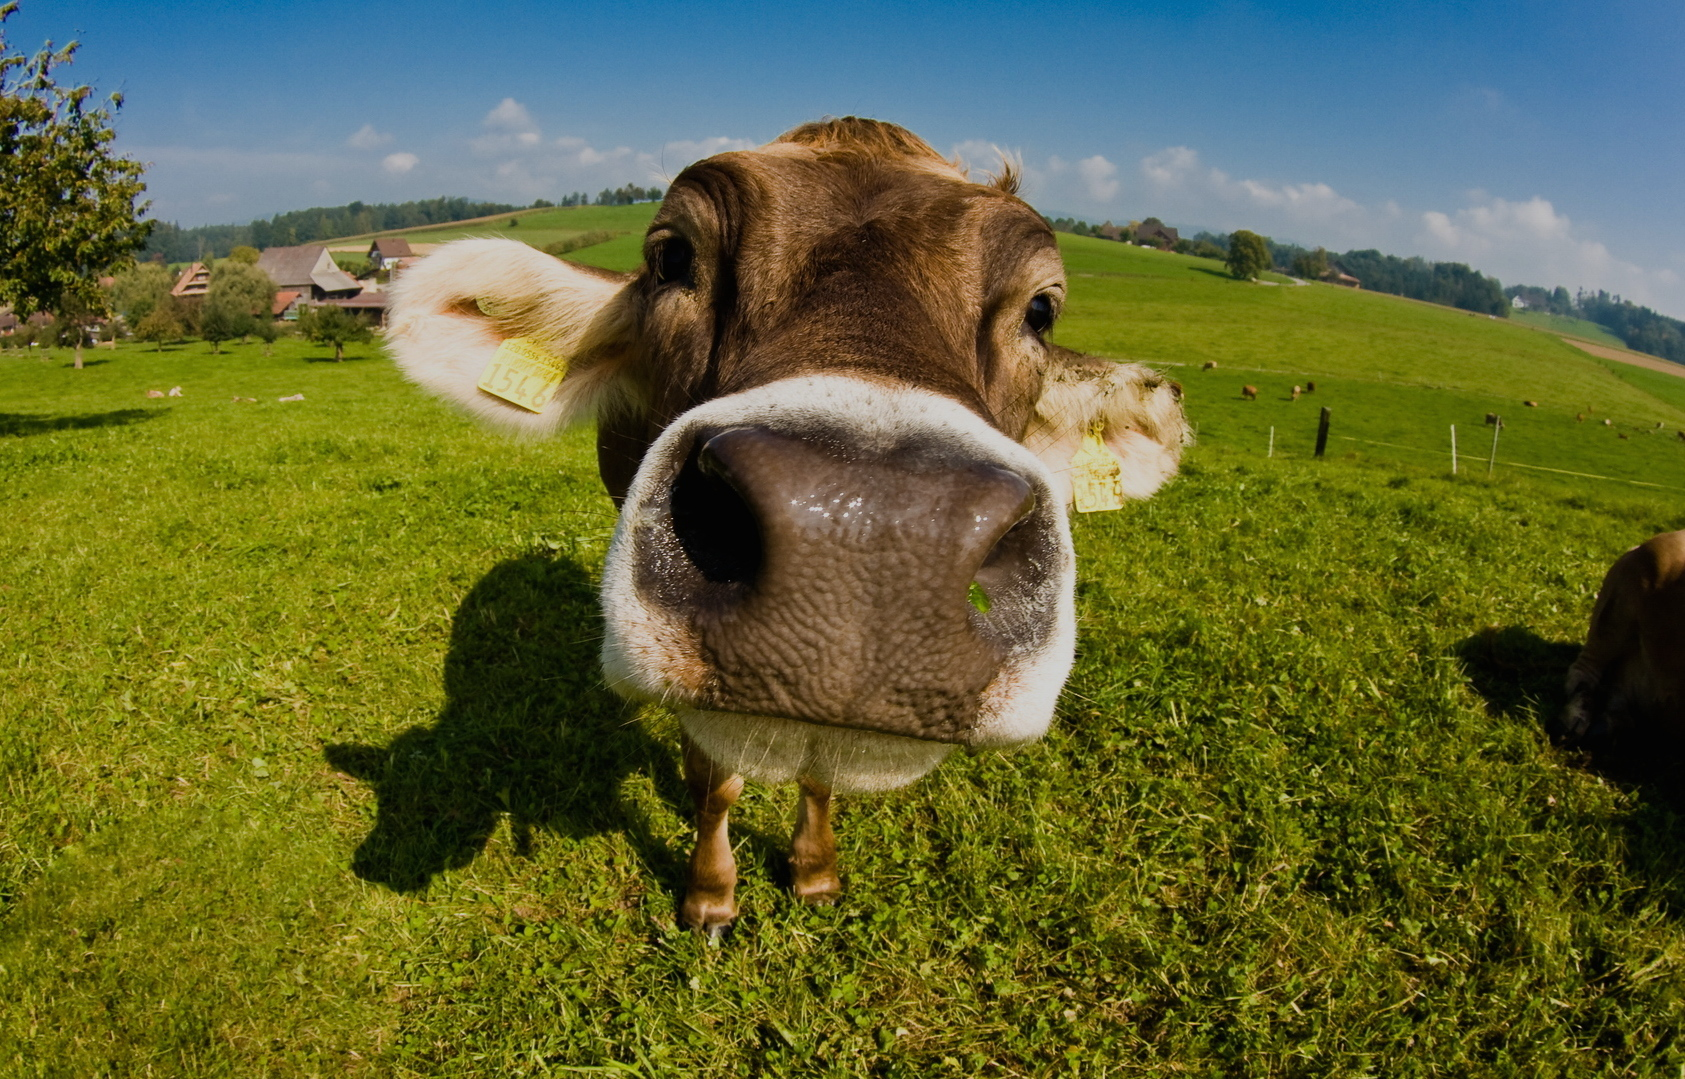
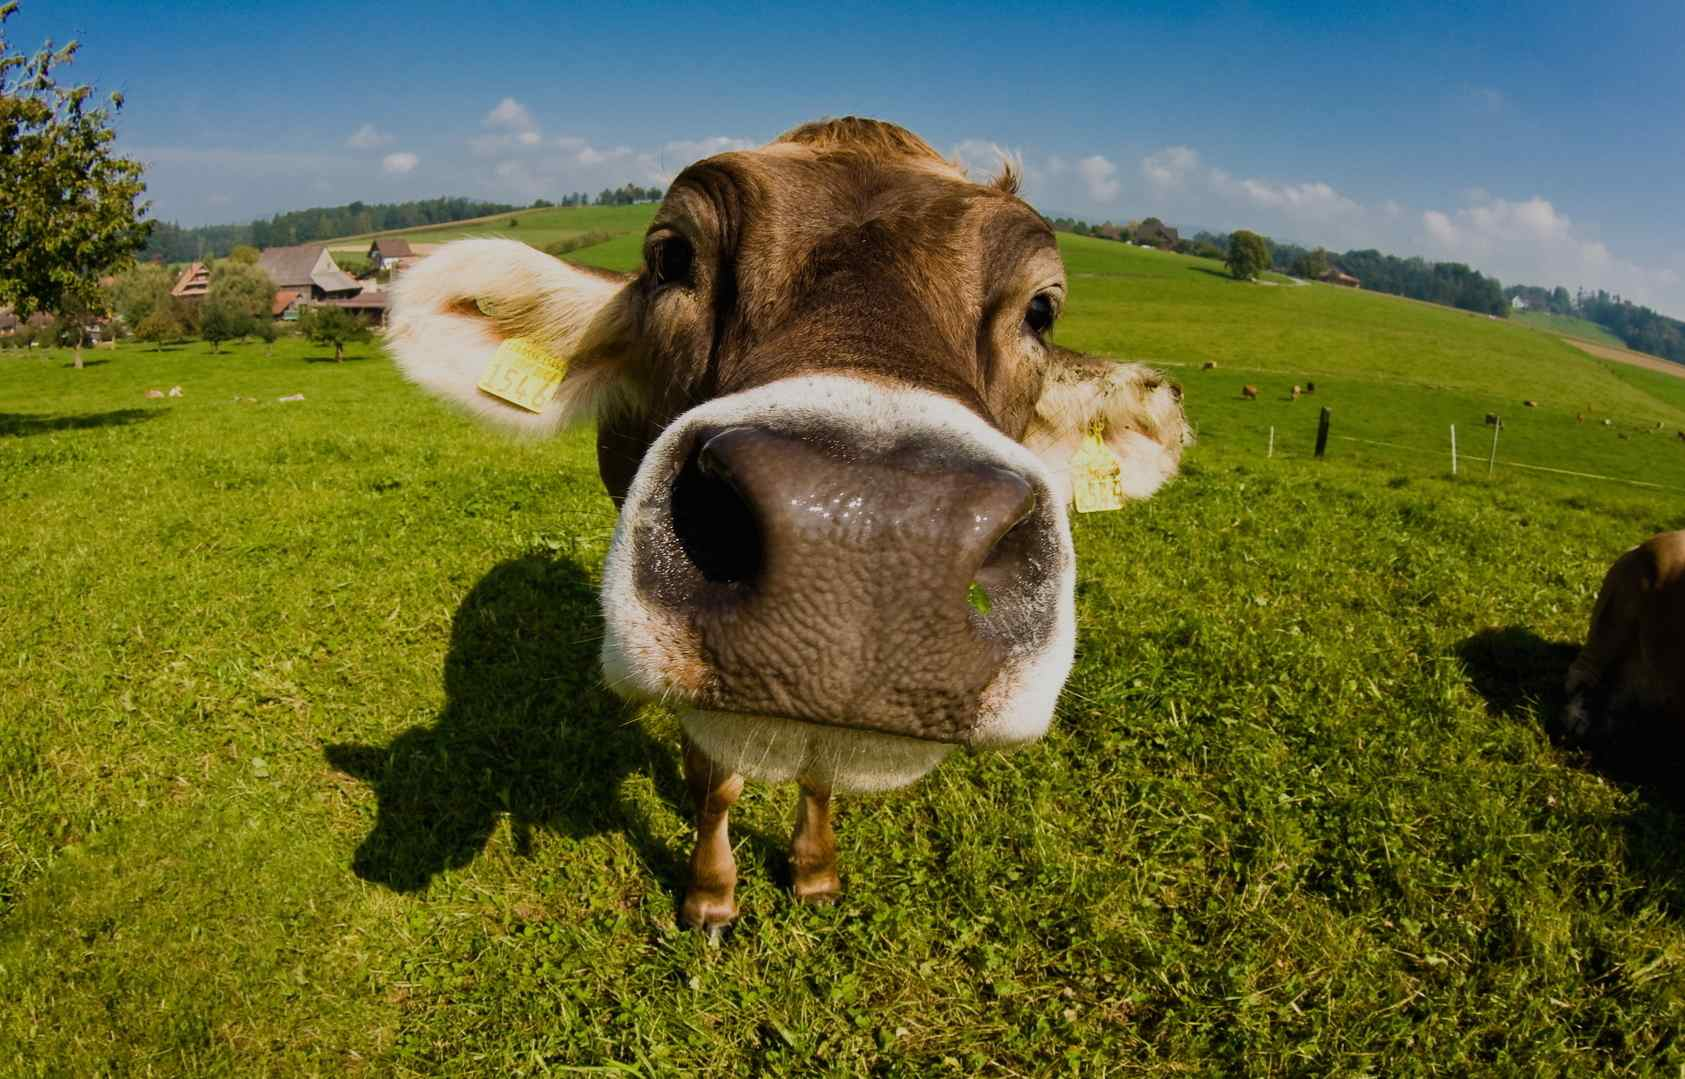
fixed user resetting forgotten password
also fixed invoice numbering, mail template finding and downsized two
images for improved speed performance.

diff --git a/server/API.js b/server/API.js
@@ -250,6 +250,7 @@ exports.configAPI = function configAPI(app) {
 				// If the body for a product contains an ID, it must already exist so we will
 				// update it. Only an admin or the user who
 				// created a product can update it. The original product is looked up by id.
+				// If the product's cycle equals the current cycle, edit an existing product
 				if (req.body._id && req.body.cycle === scheduler.currentCycle) {
 					models.Product.findById(req.body._id, function(err, product) { // first find the right product by it's ID
 						if (err) return next(err);
@@ -964,14 +965,13 @@ exports.configAPI = function configAPI(app) {
 							log.info(data.status);
 							done(data.status, null);
 						}
-					
 					});
 				}
 				else done(null, 0, 0);
 			}, function(lat, lng, done) {
 				// disable unapproved producers from uploading immediately.
-				//if (req.body.user_type.canSell) req.body.user_type.canSell = false;
-				if (req.body.user_type.name === 'Producer') req.body.user_type.canSell = true;
+				if (req.body.user_type.canSell) req.body.user_type.canSell = false;
+				// if (req.body.user_type.name === 'Producer') req.body.user_type.canSell = true;
 				models.User.register(new models.User({
 					dateJoined: Date.today(),
 					name: req.body.name,
@@ -1008,35 +1008,38 @@ exports.configAPI = function configAPI(app) {
 					items: [{name:itemName, cost:cost}],
 					dueDate: Date.today().addDays(30)
 				});
-					
-				memberEmailOptions = {
-					template: "new-member",
-					subject: 'Welcome to the NNFC online Store',
-					to: {
+				// save the invoice made for the user;
+				invoice.save(function(err, invoice) {
+					if (err) log.info(err);
+					log.info('Invoice saved');
+					memberEmailOptions = {
+						template: "new-member",
+						subject: 'Welcome to the NNFC online Store',
+						to: {
+							email: user.email,
+							name: user.name
+						}
+					};
+					//send an email invoice
+					memberEmailData = {
+						name: user.name,
+						dueDate: invoice.dueDate,
+						code: invoice._id,
+						items: invoice.items,
+						cost: invoice.total,
+						account: config.bankAccount,
 						email: user.email,
-						name: user.name
-					}
-				};
-				//send an email invoice
-				memberEmailData = {
-					name: user.name,
-					dueDate: invoice.dueDate,
-					code: invoice._id,
-					items: invoice.items,
-					cost: invoice.total,
-					account: config.bankAccount,
-					email: user.email,
-					password: req.body.password
-				};
-
-				memberEmail = new Emailer(memberEmailOptions, memberEmailData);
-
-				memberEmail.send(function(err, result) {
-					if (err) {
-						log.warn(err);
-					}
-					log.info("Message sent to new member");
+						password: req.body.password
+					};
+					memberEmail = new Emailer(memberEmailOptions, memberEmailData);
+					memberEmail.send(function(err, result) {
+						if (err) {
+							log.warn(err);
+						}
+						log.info("Message sent to new member %s", user.name);
+					});
 				});
+				
 				done(null, user);
 			}
 			],
@@ -1048,7 +1051,7 @@ exports.configAPI = function configAPI(app) {
 						email: {email: user.email},
 						merge_vars : {
 							FNAME : user.name.substr(0, user.name.indexOf(" ")),
-							LNAME : user.name.substr(user.name.indexOf(" ")+1),
+							LNAME : user.name.substr(user.name.indexOf(" ")+1) || '',
 							USER_TYPE : user.user_type.name,
 							ADDRESS : user.address,
 							PHONE : user.phone
@@ -1057,12 +1060,6 @@ exports.configAPI = function configAPI(app) {
 					//subscribe user to mailChimp
 					mc.lists.subscribe(params, function(result) {log.info(result);}, function(err) {
 						log.info(err);
-					});
-					
-					// save the invoice made for the user;
-					invoice.save(function(err) {
-						if (err) log.info(err);
-						log.info('Invoice saved');
 					});
 					// authenticate the newly created user
 					passport.authenticate('local', function(err, user, info){
@@ -1479,15 +1476,16 @@ exports.configAPI = function configAPI(app) {
 			function(token, done) {
 				models.User.findOne({ email: req.body.email }, function(err, user) {
 					if (!user) {
-						req.flash('error', 'No account with that email address exists.');
-						return res.redirect('#/forgot');
+						log.warn('failed to reset password for %s', req.body.email);
+						res.status(404).send('Error! No account with that email address exists.');
+					} else {
+						user.resetPasswordToken = token;
+						user.resetPasswordExpires = Date.now() + 3600000; // 1 hour
+						log.info('reset token expires in: ' + user.resetPasswordExpires);
+						user.save(function(err) {
+							done(err, token, user);
+						});
 					}
-					user.resetPasswordToken = token;
-					user.resetPasswordExpires = Date.now() + 3600000; // 1 hour
-					log.info('expires in: ' + user.resetPasswordExpires);
-					user.save(function(err) {
-						done(err, token, user);
-					});
 				});
 			},
 			// send the user an email with a link to reset their password
@@ -1509,25 +1507,26 @@ exports.configAPI = function configAPI(app) {
 
 				resetEmail.send(function(err, result) {
 					if (err) {
-						return log.info(err);
+						log.info(err);
+					} else {
+						log.info("Message sent to user for resetting their password");
 					}
-					// a response is sent so the client request doesn't timeout and get an error.
-					req.flash('info', 'An e-mail has been sent to ' + user.email + ' with further instructions.');
-					log.info("Message sent to user for resetting their password");
-					done(err, 'done');
+					
 				});
+				done(null, 'done');
 			}
 			], 
 			// if there was no error, redirect the user to the home page
 			function(err) {
 				if (err) return next(err);
-				res.redirect('/#/forgot');
+				res.send('Your password reset instructions have been emailed to you.');
 		});
 	});
 	
 	// Get a user to have their password reset
 	app.get('/api/reset/:token', function(req,res) {
-		models.User.findOne({ resetPasswordToken: req.params.token, resetPasswordExpires: { $gt: Date.now() } }, function(err, user) {
+		models.User.findOne({ resetPasswordToken: req.params.token, resetPasswordExpires: { $gt: Date.now() } })
+		.select('email name resetPasswordToken').exec(function(err, user) {
 			if (user) {
 				res.json(user);
 			}
@@ -1542,19 +1541,25 @@ exports.configAPI = function configAPI(app) {
 		async.waterfall([
 			// find and save the user's new password as well as reseting their token values.
 			function(done) {
-				models.User.findOne({ resetPasswordToken: req.params.token, resetPasswordExpires: { $gt: Date.now() } }, function(err, user) {
+				models.User.findOne({ resetPasswordToken: req.params.token, resetPasswordExpires: { $gt: Date.now() } }, '-producerData', function(err, user) {
 					if (!user) {
-						return res.status(403).send('Password reset token is invalid or has expired');
+						log.info('Password reset token is invalid or has expired');
+						res.status(403).send('Password reset token is invalid or has expired');
 					}
-					user.setPassword(req.body.password, function() {
-						user.set(resetPasswordToken, undefined);
-						user.set(resetPasswordExpires, undefined);
+					else {
+						
+						user.setPassword(req.body.password, function() {
+							log.info({user: user}, '%s is having their password changed', user.name);
+							user.set('resetPasswordToken', undefined);
+							user.set('resetPasswordExpires', undefined);
 
-						user.save(function(err) {
-							if (err) next(err);
-							done(err, user);
+							user.save(function(err) {
+								if (err) next(err);
+							});
+							done(null, user);
 						});
-					});
+					}
+					
 				});
 			},
 			// send an email to the user informing them of their password being changed.
@@ -1576,16 +1581,16 @@ exports.configAPI = function configAPI(app) {
 
 				changeEmail.send(function(err, result) {
 					if (err) {
-						return log.info(err);
+						return next(err);
 					}
 					// a response is sent so the client request doesn't timeout and get an error.
 					log.info("Message sent to user confirming password change");
-					req.logIn(user, function(err) {
-						user.toObject();
-						res.send(user);
-					});
-					done(err, 'done');
 				});
+				req.logIn(user, function(err) {
+					user.toObject();
+					res.send(user);
+				});
+				done(null, 'done changing password for user');
 			}
 			], function(err, results) {
 				if (err) next(err);
@@ -1602,7 +1607,7 @@ exports.configAPI = function configAPI(app) {
 			sort: {
 				_id: 1
 			}
-		}, function(e, results) {
+		}).lean().exec(function(e, results) {
 			if (e) next(e);
 			res.json(results);
 		});
@@ -1614,7 +1619,7 @@ exports.configAPI = function configAPI(app) {
 			sort: {
 				_id: 1
 			}
-		}, function(e, results) {
+		}).lean().exec(function(e, results) {
 			if (e) next(e);
 			res.json(results);
 		});
@@ -1637,12 +1642,6 @@ exports.configAPI = function configAPI(app) {
 		delete calendar[1].cycleIncrementDay;
 		delete calendar[2].cycleIncrementDay;
 		res.send(calendar);
-		log.info({res: res, permissions: {
-			canUpload: scheduler.canUpload,
-			canShop: scheduler.canShop,
-			canChange: scheduler.canChange
-			}}
-		, 'sending calendar');
 	});
 	
 	// ensure redirects work with tidy and hashBangless URL's

diff --git a/server/emailer.js b/server/emailer.js
@@ -1,12 +1,13 @@
 // Generated by CoffeeScript 1.7.1
 (function() {
-	var Emailer, emailer, smtpTransport, exports, config, fs, _;
+	var Emailer, emailer, smtpTransport, exports, config, fs, _, path;
 
 	emailer = require("nodemailer");
 	smtpTransport = require('nodemailer-smtp-transport');
 	config = require('./config').Config;
 	fs = require("fs");
 	_ = require('lodash');
+	path = require("path");
 
 	Emailer = (function() {
 		Emailer.prototype.options = {};
@@ -51,7 +52,7 @@
 
 		Emailer.prototype.getHtml = function(templateName, data) {
 			var encoding, templateContent, templatePath;
-			templatePath = "./mailTemplates/" + templateName + ".html";
+			templatePath = path.join(__dirname, "mailTemplates", templateName + ".html");
 			templateContent = fs.readFileSync(templatePath, encoding = "utf8");
 			return _.template(templateContent, data, {
 				interpolate: /\{\{(.+?)\}\}/g

diff --git a/app/js/controllers.js b/app/js/controllers.js
@@ -117,10 +117,14 @@ angular.module('co-op.controllers', [])
 ])
 
 // Used by Forgot page for requesting a password reset for a user
-.controller('forgotCtrl', ['$scope', '$location', 'Restangular',
-	function($scope, $location, Restangular) {
+.controller('forgotCtrl', ['$scope', 'flash', 'Restangular',
+	function($scope, flash, Restangular) {
 		$scope.passwordReset = function() {
-			Restangular.all('api/forgot').post({email: $scope.email});
+			Restangular.all('api/forgot').post({email: $scope.email}).then(function(result) {
+				flash.setMessage({type:'success', message: result});
+			}, function(error) {
+				flash.setMessage({type:'danger', message: error.message || error.data || error});
+			});
 		};
 	}
 ])

diff --git a/server/mailTemplates/reset-password.html b/server/mailTemplates/reset-password.html
@@ -2,7 +2,7 @@
 
 <p>You are receiving this because you (or someone else) have requested the reset of the password for your account. </p> 
 <p>Please click on the following link, or paste this into your browser to complete the process:</p>
-<p><a href="http://{{ host }}/#/reset/{{ token }}"> http://{{ host }}/reset/{{ token }}</a></p>
+<p><a href="http://{{ host }}/reset/{{ token }}"> http://{{ host }}/reset/{{ token }}</a></p>
 <p>If you did not request this, please ignore this email and your password will remain unchanged.</p>
 
 <p>Your's sincerely,<br>

diff --git a/server/models.js b/server/models.js
@@ -217,10 +217,12 @@ var UserSchema = new Schema({
 });
 // delete the salt and hash from requests for the user objects
 if (!UserSchema.options.toObject) UserSchema.options.toObject = {};
+/*
 UserSchema.options.toObject.transform = function (doc, ret, options) {
 	delete ret.salt;
 	delete ret.hash;
-};
+};*/
+
 
 UserSchema.virtual('firstName').get(function() {
 	return this.name.substr(0, this.name.indexOf(' '));

diff --git a/app/partials/reset-password.html b/app/partials/reset-password.html
@@ -1,6 +1,6 @@
 <alert class="success">Hi {{user.name}}. Reset your password here. You'll receive an email notification that things were changed.</alert>
 
-<form name="resetPwd" autocomplete="on" ng-submit="save()" novalidate>
+<form name="resetPwd" autocomplete="on" ng-submit="save()" novalidate class="col-xs-12 col-sm-8 col-sm-offset-2">
 	<fieldset>
 		<legend>Reset Password</legend>
 		<div class="form-group">

diff --git a/server/scheduler.js b/server/scheduler.js
@@ -266,7 +266,6 @@ function invoiceFromProducer(producer) {
 							if (e) done(e);
 							else done(null, invoice);
 						});
-			
 		},
 		function(invoice, done) {
 			var mailOptions, mailData, mail;
@@ -346,7 +345,7 @@ function disableCycle() {
 
 findCycle();
 checkConfig();
-disableCycle();
+//disableCycle();
 
 // checkout everyone's purchases
 //checkout();

diff --git a/app/partials/forgot-password.html b/app/partials/forgot-password.html
@@ -1,4 +1,4 @@
-<form name="forgotPWD" autocomplete="on" ng-submit="passwordReset()" novalidate>
+<form name="forgotPWD" autocomplete="on" ng-submit="passwordReset()" novalidate class="col-xs-12 col-sm-8 col-sm-offset-2">
 	<fieldset>
 		<legend>Recover Password</legend>
 		<div class="form-group">
